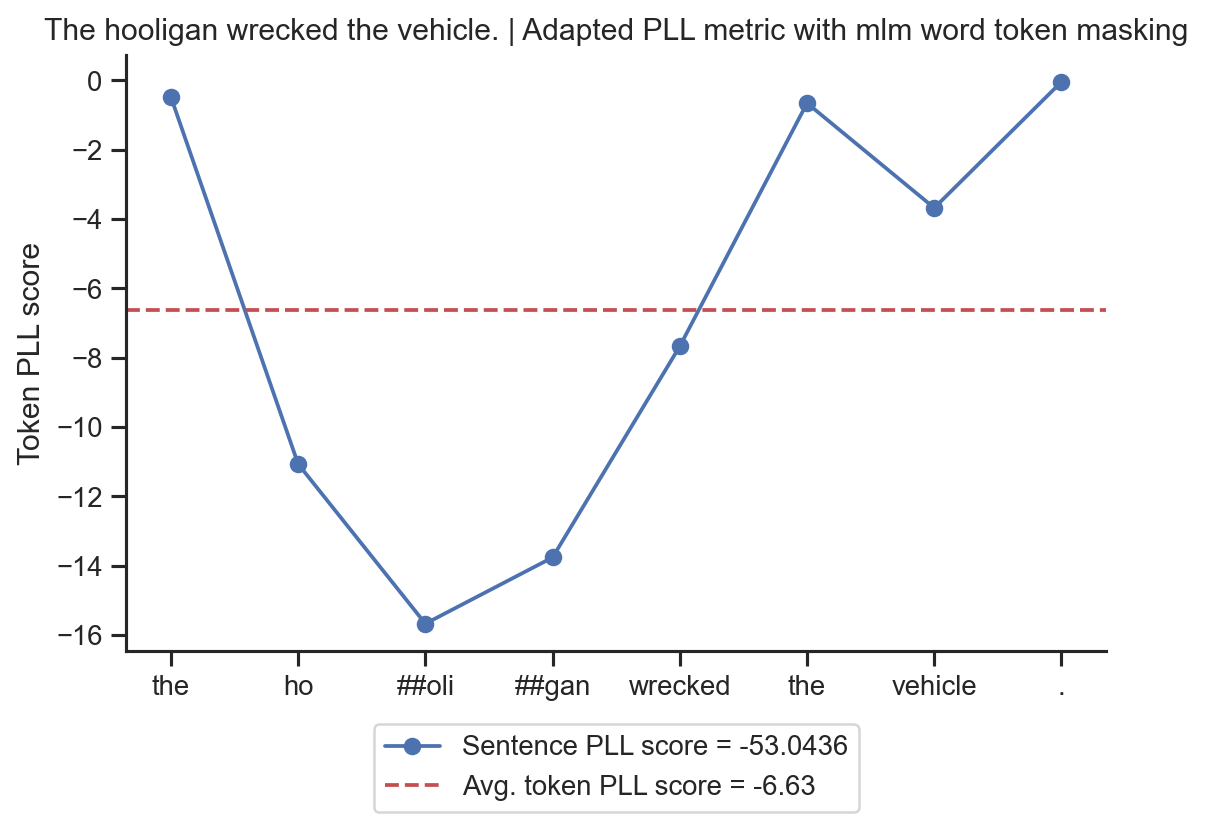
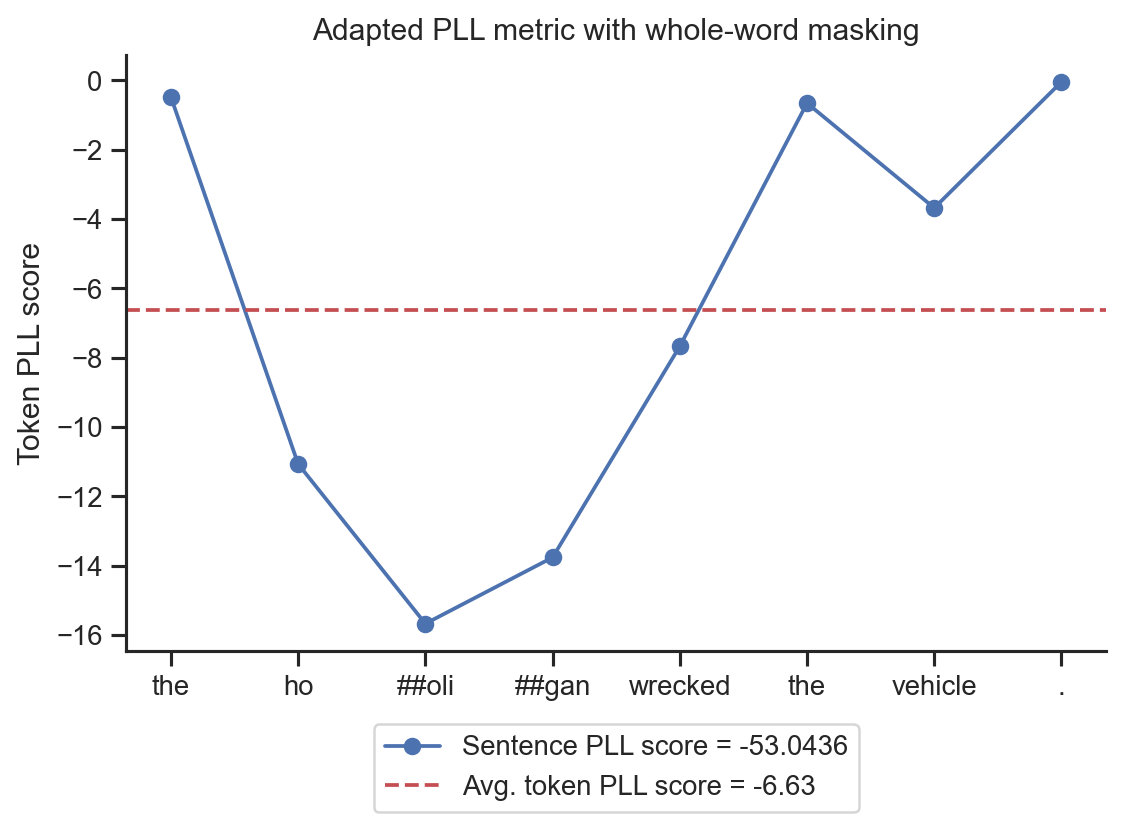
update by-token PLL score plots with whole-word masking metric

diff --git a/carina/motivationForAdaptation_runScript.py b/carina/motivationForAdaptation_runScript.py
@@ -58,15 +58,15 @@ for sent_i, sent in enumerate(stimuli):
         plt.legend(loc='upper center', bbox_to_anchor=(0.5, -0.1), fancybox=True, shadow=False, ncol=1)
         plt.ylabel('Token PLL score')
         if which_masking == "within_word_l2r":
-            plt.title(f"{sent} | Adapted PLL metric with l2r word token masking")
+            plt.title("Adapted PLL metric with left-to-right word token masking")
             savesuffix = 'adaptedPLL_l2r'
         elif which_masking == "within_word_mlm":
-            plt.title(f"{sent} | Adapted PLL metric with mlm word token masking")
+            plt.title("Adapted PLL metric with whole-word masking")
             savesuffix = 'adaptedPLL_mlm'
         else:
-            plt.title(f"{sent} | Original PLL metric")
+            plt.title("Token-level masking (original PLL metric)")
             savesuffix = 'originalPLL'
-        plt.tight_layout()
+        fig.tight_layout()
 
         out_dir = "results/motivationForAdaptation/"
         os.makedirs(out_dir, exist_ok=True)
@@ -74,3 +74,36 @@ for sent_i, sent in enumerate(stimuli):
         plt.savefig(filename, dpi=180, bbox_inches='tight')
         plt.show()
         print('\n')
+
+for sent_i, sent in enumerate(stimuli):
+    fig, axs = plt.subplots(1, 3, figsize=(20, 6), sharey=True)
+    for i, which_masking in enumerate(["original", "within_word_l2r", "within_word_mlm"]):
+        scores = mlm_model.token_score(sent, which_masking=which_masking)[0]
+        x = [elm[0] for elm in scores]
+        y = [elm[1] for elm in scores]
+        avg = np.mean(y)
+
+        axs[i].plot(y, marker="o", label=f"Sentence PLL score = {round(sum(y), 4)}")
+        axs[i].set_xticks(np.arange(len(x)), np.arange(1, len(x) + 1), minor=False)
+        axs[i].set_xticklabels(x)
+        axs[i].axhline(y=avg, color='r', linestyle='--', label=f"Avg. token PLL score = {round(avg, 2)}")
+        axs[i].legend(loc='upper center', bbox_to_anchor=(0.5, -0.1), fancybox=True, shadow=False, ncol=1)
+        axs[i].set_ylabel('Token PLL score')
+        if which_masking == "within_word_l2r":
+            axs[i].set_title("Within-word left-to-right masking")
+            savesuffix = 'adaptedPLL_l2r'
+        elif which_masking == "within_word_mlm":
+            axs[i].set_title(f"Whole-word masking")
+            savesuffix = 'adaptedPLL_mlm'
+        else:
+            axs[i].set_title("Token-level masking (original PLL metric)")
+            savesuffix = 'originalPLL'
+    fig.suptitle(f"{sent}")
+    fig.tight_layout()
+
+    out_dir = "results/motivationForAdaptation/"
+    os.makedirs(out_dir, exist_ok=True)
+    filename = f'{out_dir}/sent{sent_i + 1}_combined.png'
+    plt.savefig(filename, dpi=180, bbox_inches='tight')
+    plt.show()
+    print('\n')
